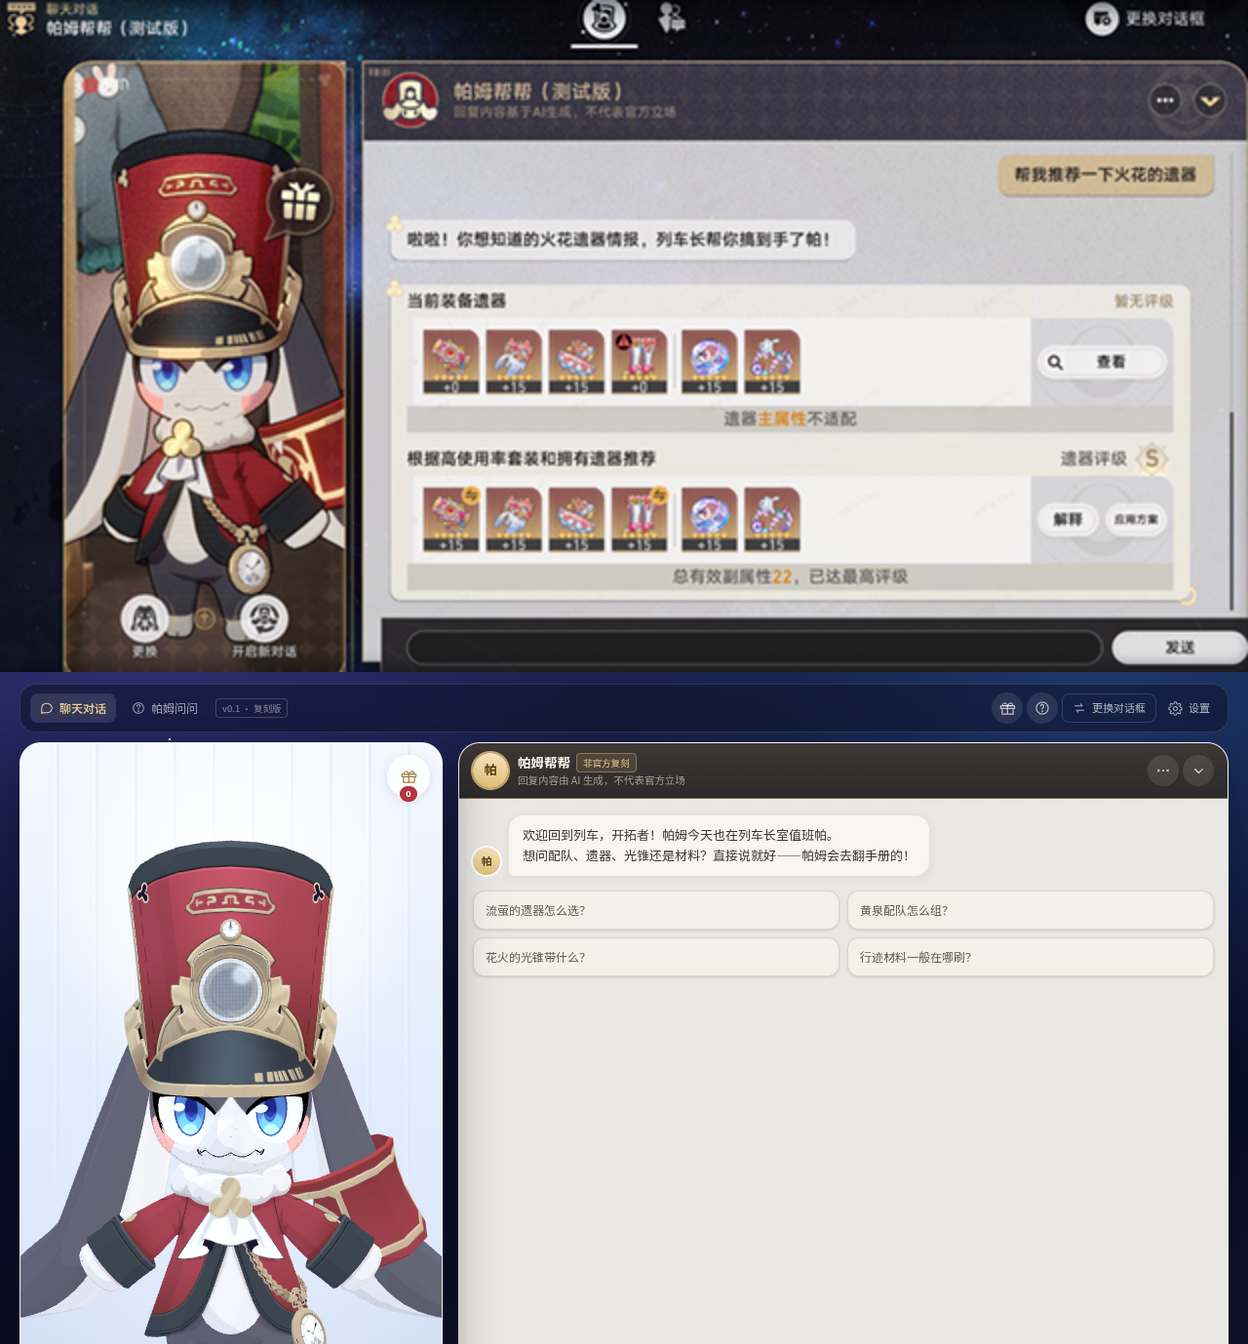
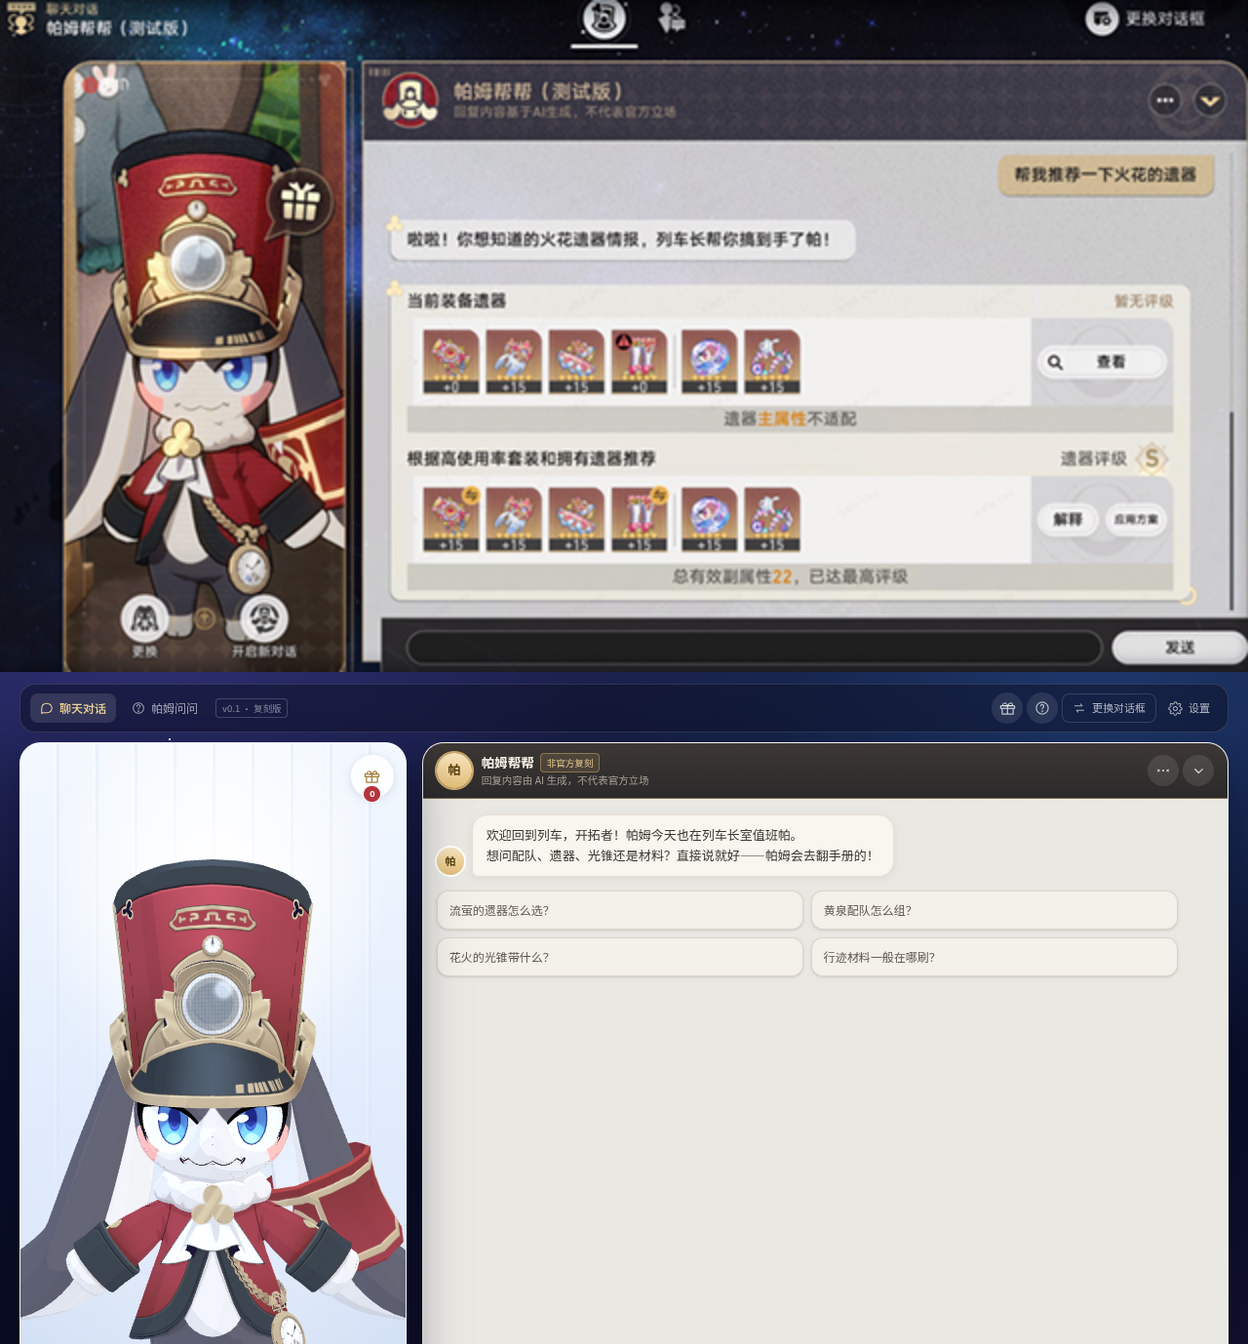
layout: 16:9 自适应铺满视口，缩小左右留白；3D 取景按左栏比例自适应
- 页面去掉 1360/1920 最大宽度限制，左右仅保留 16~20px 边距（1366/1920/2560 实测）
- 左栏改为 clamp(340px,32%,620px)，聊天面板铺满剩余宽度；消息/卡片不再限宽
- pompomCore：按容器宽高比动态计算横向占比，模型高度稳定约 82%（16:9 大屏不再过大/裁切）
- 截图更新：home/chat 1280、1920、1366、2560 与对比图；海报与 asset-preview 重出

Changed region(s): [[0.0312, 0.5312, 0.7812, 1.0]]

diff --git a/src/components/chat/ChatShell.tsx b/src/components/chat/ChatShell.tsx
@@ -41,10 +41,10 @@ export default function ChatShell() {
   const busy = status !== "idle" && status !== "error";
 
   return (
-    <div className="relative z-10 mx-auto flex h-dvh w-full max-w-[1360px] flex-col overflow-hidden px-3 pb-2 pt-2 md:px-5 md:pt-3">
+    <div className="relative z-10 mx-auto flex h-dvh w-full flex-col overflow-hidden px-2 pb-2 pt-2 sm:px-3 md:px-4 md:pt-3 lg:px-5">
       <TopBar />
 
-      <main className="grid min-h-0 flex-1 grid-rows-[minmax(0,1fr)] gap-3 md:grid-cols-[minmax(330px,35%)_1fr] md:gap-4">
+      <main className="grid min-h-0 flex-1 grid-rows-[minmax(0,1fr)] gap-3 md:grid-cols-[clamp(340px,32%,620px)_1fr] md:gap-4">
         {/* 左：帕姆立绘栏（原版左侧角色区） */}
         <aside className="character-panel relative hidden min-h-0 overflow-hidden rounded-[22px] md:block">
           <div className="window-stripes absolute inset-0" />
@@ -89,6 +89,7 @@ export default function ChatShell() {
         {/* 右：聊天主面板（原版浅色对话区） */}
         <section className="chat-panel flex min-h-0 flex-1 flex-col overflow-hidden rounded-[22px]">
           <div className="chat-header flex items-center justify-between gap-3 px-3.5 py-2.5">
+            <div className="flex w-full items-center justify-between gap-3">
             <div className="flex items-center gap-2.5">
               <div className="flex h-9 w-9 items-center justify-center rounded-full bg-gradient-to-b from-[#f7e5bd] to-[#e3bd78] text-[13px] font-bold text-[#58400f] shadow-sm ring-2 ring-[#c9a86a]">
                 帕
@@ -111,18 +112,21 @@ export default function ChatShell() {
                 <ChevronIcon />
               </button>
             </div>
+            </div>
           </div>
 
-          <div ref={listRef} className="scrollbar-thin flex-1 space-y-4 overflow-y-auto bg-[#eae8e3] px-3.5 py-4">
-            {messages.length === 0 ? <EmptyState onPick={(p) => submit(p)} /> : null}
-            {messages.map((m) => (
-              <MessageRow key={m.id} message={m} />
-            ))}
-            {error ? (
-              <div className="rounded-xl border border-[#e9c2c2] bg-[#fdf3f3] px-3 py-2 text-[11.5px] text-[#b06a6a]">
-                通讯异常：{error}
-              </div>
-            ) : null}
+          <div ref={listRef} className="scrollbar-thin flex-1 overflow-y-auto bg-[#eae8e3] px-3.5 py-4">
+            <div className="w-full space-y-4">
+              {messages.length === 0 ? <EmptyState onPick={(p) => submit(p)} /> : null}
+              {messages.map((m) => (
+                <MessageRow key={m.id} message={m} />
+              ))}
+              {error ? (
+                <div className="rounded-xl border border-[#e9c2c2] bg-[#fdf3f3] px-3 py-2 text-[11.5px] text-[#b06a6a]">
+                  通讯异常：{error}
+                </div>
+              ) : null}
+            </div>
           </div>
 
           <form
@@ -132,6 +136,7 @@ export default function ChatShell() {
               submit();
             }}
           >
+            <div className="w-full">
             <div className="flex items-end gap-2">
               <div className="flex flex-1 items-end rounded-2xl border border-[#d8d2c6] bg-[#f9f7f2] px-1.5 py-1.5 shadow-sm transition-colors focus-within:border-[#c9a86a]">
                 <textarea
@@ -168,6 +173,7 @@ export default function ChatShell() {
                   {p}
                 </button>
               ))}
+            </div>
             </div>
           </form>
         </section>
@@ -247,7 +253,7 @@ function EmptyState({ onPick }: { onPick: (prompt: string) => void }) {
           想问配队、遗器、光锥还是材料？直接说就好——帕姆会去翻手册的！
         </div>
       </div>
-      <div className="grid gap-2 sm:grid-cols-2">
+      <div className="grid gap-2 sm:grid-cols-2 lg:max-w-[760px]">
         {QUICK_PROMPTS.map((p) => (
           <button
             key={p}

diff --git a/src/components/pompom/pompomCore.js b/src/components/pompom/pompomCore.js
@@ -50,8 +50,10 @@ const TOON_LOOK = Object.freeze({
   outlineWidthPx: 2.3,
   /** 脚底留白占画面高度的比例（构图：居中偏下） */
   bottomMargin: 0.09,
-  /** 全身入镜：模型最多占画面宽 / 高的比例，不裁帽子与披风 */
-  maxWidthFraction: 1.32,
+  /** 目标：模型高度占画面比例（自适应不同宽高比的左栏，16:9 大屏不会把角色放得过大） */
+  targetHeightFraction: 0.82,
+  /** 全身入镜：模型最多占画面宽 / 高的比例（宽屏/窄屏自适应时会动态计算，这里是上限） */
+  maxWidthFraction: 1.4,
   maxHeightFraction: 0.9,
 });
 
@@ -428,9 +430,17 @@ export function createPomPomStage(options) {
     if (!camera) return;
     const aspect = camera.aspect || 1;
     const tan = Math.tan((camera.fov * Math.PI) / 180 / 2);
+    // 自适应取景：不同宽高比（1280×860 / 1920×1080 / 2K）下模型高度占比保持稳定，
+    // 避免 16:9 大屏左栏把角色放得过大或过小；横向最多允许 1.4 倍裁切（披风边缘）。
+    const modelAspect = modelWidth / modelHeight;
+    const targetHeight = TOON_LOOK.targetHeightFraction;
+    const widthFraction = Math.min(
+      TOON_LOOK.maxWidthFraction,
+      Math.max(1.02, (targetHeight * modelAspect) / Math.max(aspect, 0.01)),
+    );
     // 全身完整入镜（帽子/披风不裁）：宽、高分别限制，取更远的相机距离
     const heightDist = modelHeight / (2 * tan * TOON_LOOK.maxHeightFraction);
-    const widthDist = modelWidth / (2 * tan * aspect * TOON_LOOK.maxWidthFraction);
+    const widthDist = modelWidth / (2 * tan * aspect * widthFraction);
     const dist = Math.max(heightDist, widthDist);
     const halfFrame = tan * dist;
     // 脚底对齐到画面底部 8%：lookAt 点抬高 → 模型居中偏下，顶部留窗光

diff --git a/src/components/quiz/QuizFlow.tsx b/src/components/quiz/QuizFlow.tsx
@@ -89,7 +89,7 @@ export default function QuizFlow({ week }: { week: QuizWeek }) {
   };
 
   return (
-    <div className="relative z-10 mx-auto flex min-h-dvh w-full max-w-[900px] flex-col px-3 py-2 md:px-5 md:py-3">
+    <div className="relative z-10 mx-auto flex min-h-dvh w-full max-w-[1480px] flex-col px-3 py-2 md:px-5 md:py-3">
       {/* 顶部栏 */}
       <header className="glass-dark mb-2.5 flex items-center justify-between gap-2 rounded-2xl px-2.5 py-2">
         <div className="flex items-center gap-1.5">
@@ -107,7 +107,7 @@ export default function QuizFlow({ week }: { week: QuizWeek }) {
         </div>
       </header>
 
-      <main className="flex min-h-0 flex-1 flex-col lg:grid lg:grid-cols-[minmax(0,1fr)_minmax(460px,600px)] lg:items-stretch lg:gap-5">
+      <main className="flex min-h-0 flex-1 flex-col lg:grid lg:grid-cols-[minmax(0,1fr)_minmax(480px,720px)] lg:items-stretch lg:gap-5">
         <aside className="relative hidden min-h-0 overflow-hidden rounded-[22px] lg:block">
           <div className="absolute inset-0 bg-[radial-gradient(70%_50%_at_50%_20%,rgba(255,255,255,0.14),transparent_70%)]" />
           <PomPomStage className="absolute inset-0 h-full w-full" />

diff --git a/src/app/settings/page.tsx b/src/app/settings/page.tsx
@@ -48,7 +48,7 @@ export default function SettingsPage() {
   };
 
   return (
-    <div className="relative z-10 mx-auto w-full max-w-[800px] px-3 py-2 md:px-5 md:py-3">
+    <div className="relative z-10 mx-auto w-full max-w-[1080px] px-3 py-2 md:px-5 md:py-3">
       <header className="glass-dark mb-2.5 flex items-center justify-between gap-2 rounded-2xl px-2.5 py-2">
         <div className="flex items-center gap-1.5">
           <span className="flex items-center gap-1.5 rounded-lg bg-white/12 px-2.5 py-1.5 text-[12px] text-white/70">

diff --git a/docs/plan.md b/docs/plan.md
@@ -533,7 +533,7 @@ type Part =
 - **气泡**：用户 = 暗金渐变 `bubble-user`（右下小圆角）；帕姆 = 米白 `bubble-pom`（左下小圆角）+ 金色圆头像；状态提示 = 同款胶囊 + 跳动金点。
 - **卡片**：`ToolCard` 米色底 + 顶部标题行 + 徽标（人工校对/社区语料/评级 S）+ 底部出处 chips；遗器套装 teal 胶囊、光锥 S/A/B 金徽、配队米金卡、材料清单胶囊。
 - **顶部栏**：原版布局复刻（左侧「聊天对话」高亮 tab + 「帕姆问问」链接；右侧礼物/反馈/更换对话框/设置）；「更换对话框」为装饰性按钮（tooltip 敬请期待）。
-- **响应式**：<md 左栏隐藏、聊天面板全屏、顶栏精简；390×844 实测无横向溢出（`docs/screens/mobile-home.png`）。
+- **响应式 / 16:9 自适应**：页面不再限 1360 宽，改为**铺满视口**（左右只留 16~20px 边距）；`md:grid-cols-[clamp(340px,32%,620px)_1fr]` 按屏幕宽度分配左右比例；聊天内容跟随面板铺满。已实测 1366×768 / 1920×1080 / 2560×1440 三种 16:9 尺寸；<md 左栏隐藏、聊天面板全屏（390×844 无横向溢出）。3D 取景按左栏宽高比自适应（模型高度稳定约 82%），大屏不会把角色放得过大。
 - **空态/错误态**：欢迎气泡 + 4 个引导提问；流式错误保留已生成文本并提示重试。
 
 ### 7.3 素材合规
